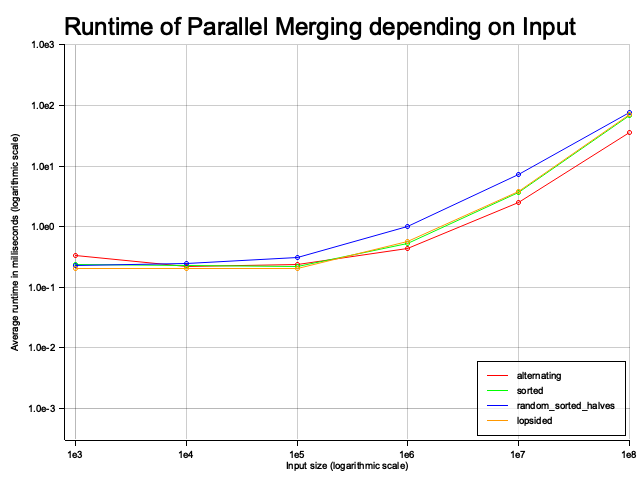
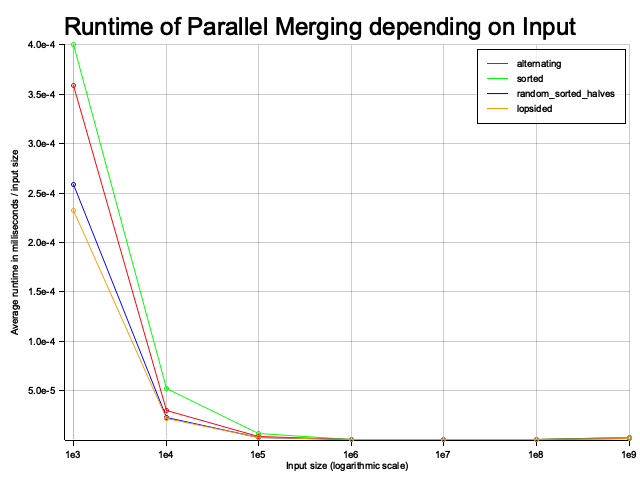
change y axis to div by input for merge plots

diff --git a/src/plotting.rs b/src/plotting.rs
@@ -10,7 +10,7 @@ use plotters::prelude::*;
 use plotters::style::full_palette::ORANGE;
 use std::time::Instant;
 
-const TOTAL_EVALUATIONS: i32 = 100;
+const TOTAL_EVALUATIONS: i32 = 8;
 
 pub fn create_data(input_sizes: Vec<usize>, threads: Vec<usize>) -> Vec<Vec<(usize, f64)>> {
     let mut data: Vec<Vec<(usize, f64)>> = Vec::with_capacity(threads.len());
@@ -70,12 +70,12 @@ pub fn create_data_for_functions(
                             let mut output = vec![0; *n];
                             let now = Instant::now();
                             // switch to parallel_merge if that should be evaluated
-                            sequential_merge(&left, &right, &mut output);
+                            parallel_merge(&left, &right, &mut output, 8);
                             now.elapsed().as_secs_f64()
                         })
                         .sum();
                     // convert to milliseconds and normalise by number of evaluations
-                    (*n, (1000 / TOTAL_EVALUATIONS) as f64 * total_elapsed)
+                    (*n, (1000 / TOTAL_EVALUATIONS) as f64 * total_elapsed / *n as f64)
                 })
                 .collect::<Vec<(usize, f64)>>(),
         )
@@ -144,7 +144,7 @@ pub fn plot_runtime_depending_on_threads() -> Result<(), Box<dyn std::error::Err
 
 pub fn plot_runtime_depending_on_input_generation() -> Result<(), Box<dyn std::error::Error>> {
     // corresponds to x axis
-    let input_sizes: Vec<usize> = (3..=8).map(|exp| 10usize.pow(exp)).collect();
+    let input_sizes: Vec<usize> = (5..=9).map(|exp| 10usize.pow(exp)).collect();
 
     // each type of input generation will correspond to a line in the graph
     let input_generation_function: Vec<MergeFunction> = vec![
@@ -161,24 +161,24 @@ pub fn plot_runtime_depending_on_input_generation() -> Result<(), Box<dyn std::e
 
     // plot
     let root =
-        BitMapBackend::new("runtime_plot_sequential_merge.png", (640, 480)).into_drawing_area();
+        BitMapBackend::new("runtime_plot_parallel_merge_zoomed.png", (640, 480)).into_drawing_area();
     let _ = root.fill(&WHITE);
     let root = root.margin(10, 10, 10, 10);
 
     let mut chart = ChartBuilder::on(&root)
         .caption(
-            "Runtime of Sequential Merging depending on Input",
-            ("times-new-roman", 30).into_font(),
+            "Runtime of Parallel Merging depending on Input - Zoomed",
+            ("times-new-roman", 26).into_font(),
         )
         .x_label_area_size(30)
         .y_label_area_size(55)
-        .build_cartesian_2d((800..100000000).log_scale(), (3e-4..1e3).log_scale())?;
+        .build_cartesian_2d((80000..1000000000).log_scale(), 1e-7..5e-6)?;
 
     chart
         .configure_mesh()
         .max_light_lines(0)
         .y_label_formatter(&|y| format!("{:.1e}", y))
-        .y_desc("Average runtime in milliseconds (logarithmic scale)")
+        .y_desc("Average runtime in milliseconds / input size")
         .x_label_formatter(&|x| format!("{:.0e}", x))
         .x_desc("Input size (logarithmic scale)")
         .draw()?;
@@ -196,7 +196,7 @@ pub fn plot_runtime_depending_on_input_generation() -> Result<(), Box<dyn std::e
 
     chart
         .configure_series_labels()
-        .position(SeriesLabelPosition::LowerRight)
+        .position(SeriesLabelPosition::UpperRight)
         .border_style(BLACK)
         .background_style(WHITE.mix(0.75))
         .draw()

diff --git a/src/main.rs b/src/main.rs
@@ -16,7 +16,7 @@ use std::time::Instant;
 pub const NUM_PROCESSORS_TEST: usize = 8;
 
 fn main() {
-    let _ = plot_runtime_depending_on_threads();
+    //let _ = plot_runtime_depending_on_threads();
     let _ = plot_runtime_depending_on_input_generation();
 
     // this can be used to run the merge sort on individual input sizes and thread counts
